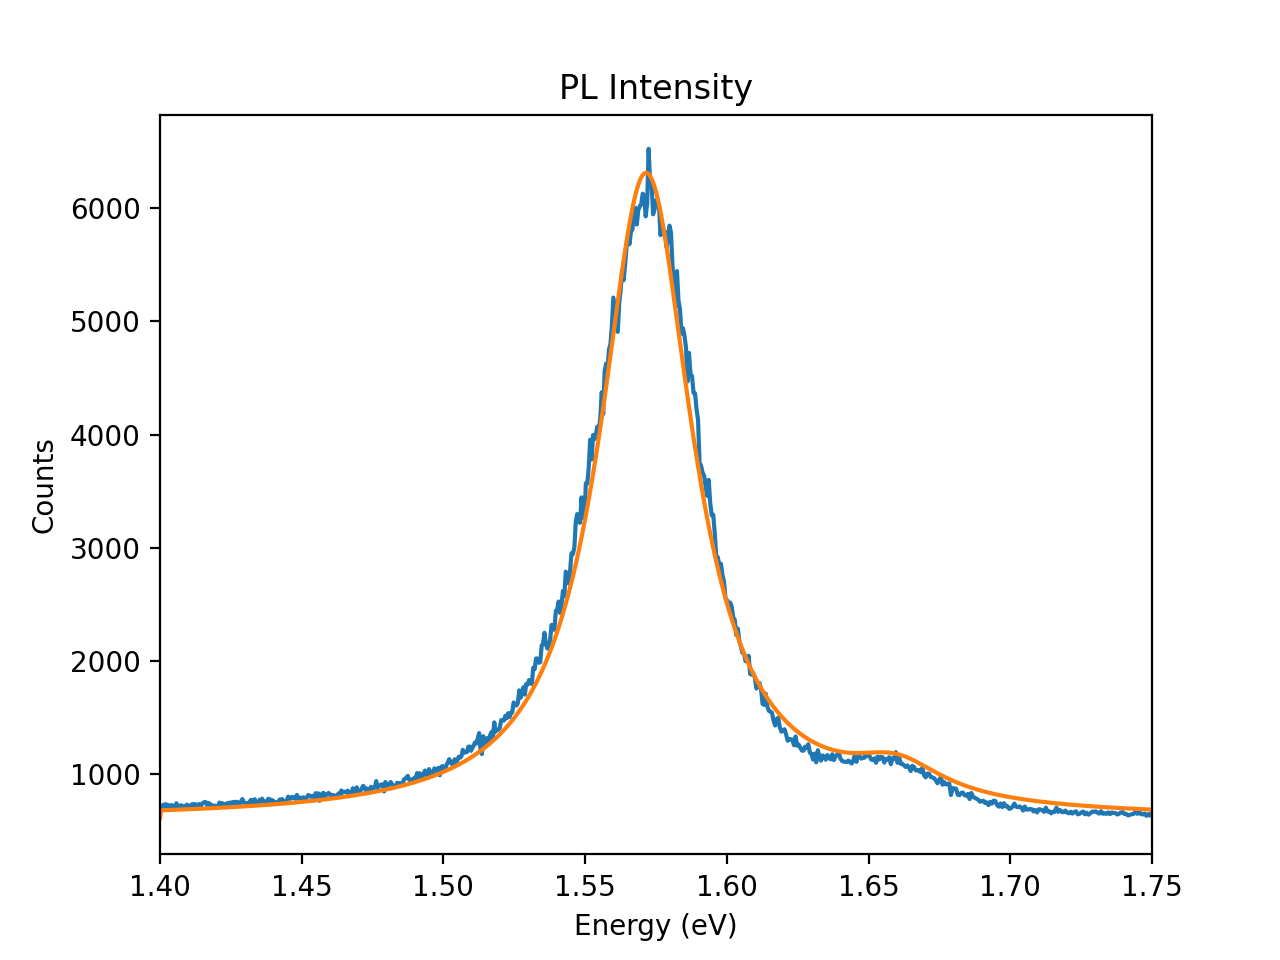
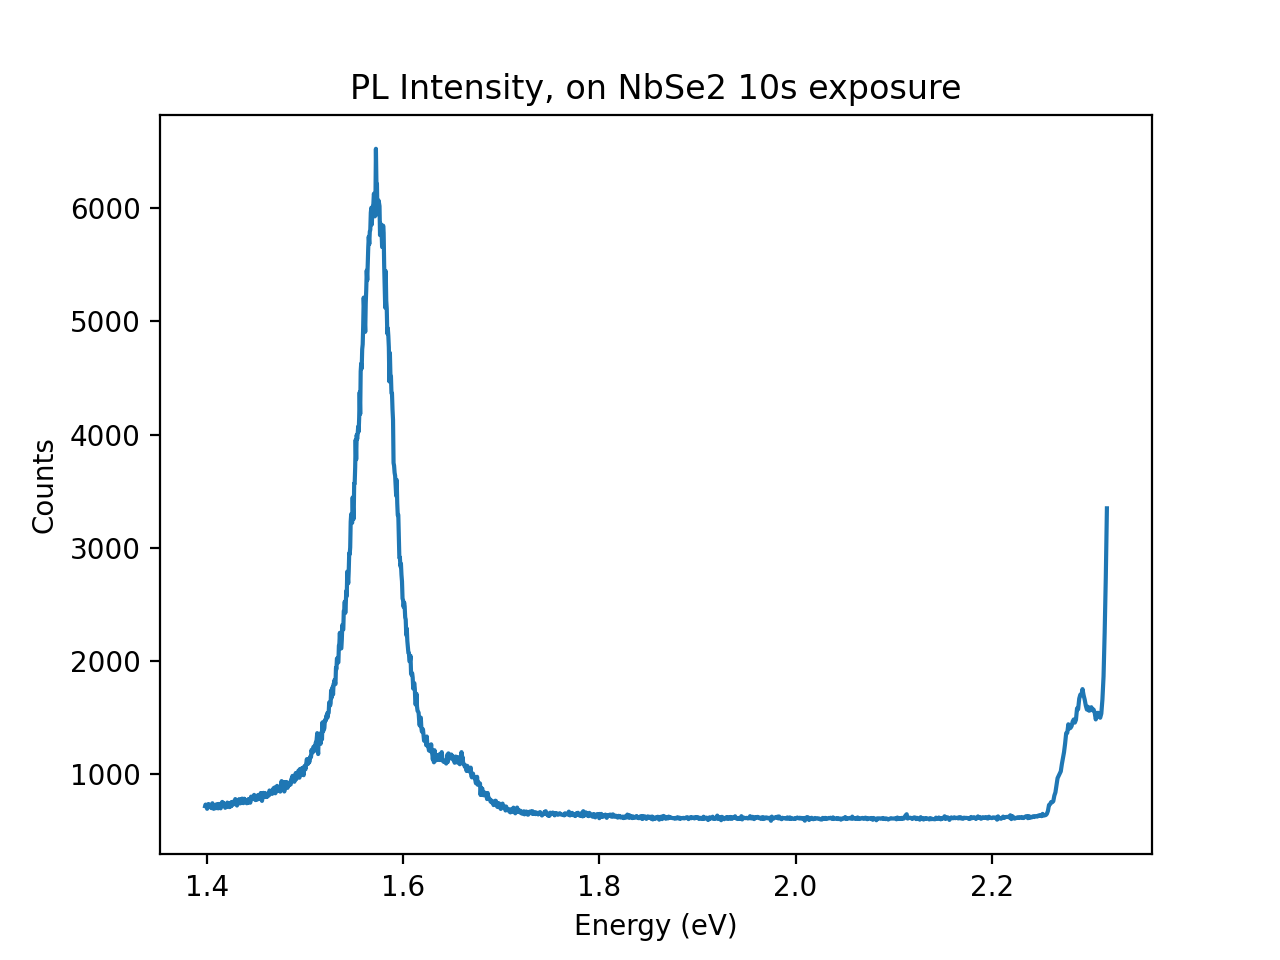
added linear background, graphing w/o fits

diff --git a/Physics/PeakFitting/PeakFitting.py b/Physics/PeakFitting/PeakFitting.py
@@ -51,7 +51,7 @@ def nm_to_eV(wavelength):
 delimiter = '\t'
 data_columns = 3
 data_start = 521     #character position at which the data begins
-file_path = "/workspaces/Projects/Physics/PeakFitting/WSe2_MoSe2_NbSe2_100uW_PL_Flake2Test1.vdat"
+file_path = "/workspaces/Projects/Physics/PeakFitting/WSe2_MoSe2_NbSe2_100uW_PL_NoFlake2Test6.vdat"
 
 
 DataArray = np.array(make_DataArray(delimiter, data_columns, data_start, file_path))
@@ -60,20 +60,26 @@ y_axis = DataArray[:,2]
 
 x_region = [1.4,1.75]
 
-plt.plot(x_axis,y_axis)
+plt.plot(x_axis,y_axis,zorder=2)
 plt.gca().invert_xaxis()
 plt.xlim(x_region)
-plt.title('PL Intensity')
+plt.title('PL Intensity off NbSe2, 10s exposure')
 plt.xlabel('Energy (eV)')
 plt.ylabel('Counts')
 
 
 # Input peak parameters
-n_peaks = 2
+n_peaks = 1
 Background = 600
 
+# Linear Background
+Background = np.zeros(len(x_axis))
+constBackground = 1000
+slopeBackground = 0.2
+
+
 # Formatted [[center_1,width_1,height_1], [center_2,width_2,height_2],...,[center_n,width_n,height_n]]
-peaks = [[1.5715, 0.04,6300], [1.66,0.04,900]]
+peaks = [[1.573, 0.045,16000], [1.663,0.038,0]]
 
 def peakFits(peaks, n_peaks, background, x):
     peakFit = 0
@@ -88,11 +94,12 @@ fit = np.zeros(len(x_axis)) + Background
 for i in range(len(x_axis)):
     x_i = x_axis[i]
     if x_i >= x_region[0] and x_i <= x_region[1]:
-        fit[i] = peakFits(peaks, n_peaks, Background, x_i)
+        Background[i] = constBackground + slopeBackground*i
+        fit[i] = peakFits(peaks, n_peaks, Background[i], x_i)
         loss = loss + (fit[i] - y_axis[i])**2/y_axis**2
 
-plt.plot(x_axis,fit)
-
+plt.plot(x_axis,fit,zorder=1)
+plt.text(1.525, 100, 'Peak at 1.573 eV', fontsize=11)
 plt.savefig('/workspaces/Projects/Physics/PeakFitting/output.png')
 
 

diff --git a/Physics/PeakFitting/Graphing.py b/Physics/PeakFitting/Graphing.py
@@ -1,0 +1,65 @@
+"""
+
+Created by Robert Wolle, 9/19
+Program that reads in data and fits it to Lorentzian peaks
+
+"""
+
+
+import sys
+import numpy as np
+import matplotlib.pyplot as plt
+plt.rcParams['figure.dpi']=200 # setting the dpi of outputted graphs.
+
+
+
+def make_DataArray(delimiter, data_columns, data_start, file_path):
+    with open(file_path, "r") as file:
+        data = file.read()
+
+    data_values = []
+    last_break = data_start
+    for char in range(data_start,len(data)):
+        if data[char] == delimiter or data[char] == '\n':
+            data_values.append(float(data[last_break:char]))
+            last_break = char+1
+
+    # We can use the number of data points divided by number of columns to get the number of rows of data
+    data_rows = int(len(data_values)/data_columns)
+
+    data_organized = []
+    for row in range(data_rows):
+        data_organized.append(data_values[row*data_columns:(row+1)*data_columns])
+    return data_organized
+
+def nm_to_eV(wavelength):
+    return 1240/wavelength
+
+
+# User inputs:
+delimiter = '\t'
+data_columns = 3
+data_start = 521     #character position at which the data begins
+file_path = "/workspaces/Projects/Physics/PeakFitting/WSe2_MoSe2_NbSe2_100uW_PL_Flake2Test1.vdat"
+
+
+DataArray = np.array(make_DataArray(delimiter, data_columns, data_start, file_path))
+x_axis = nm_to_eV(DataArray[:,0])
+y_axis = DataArray[:,2]
+
+
+x_region = [1.4,1.75]
+
+plt.plot(x_axis,y_axis,zorder=2)
+#plt.gca().invert_xaxis()
+#plt.xlim(x_region)
+plt.title('PL Intensity, on NbSe2 10s exposure')
+plt.xlabel('Energy (eV)')
+plt.ylabel('Counts')
+
+plt.savefig('/workspaces/Projects/Physics/PeakFitting/output.png')
+
+
+
+
+
